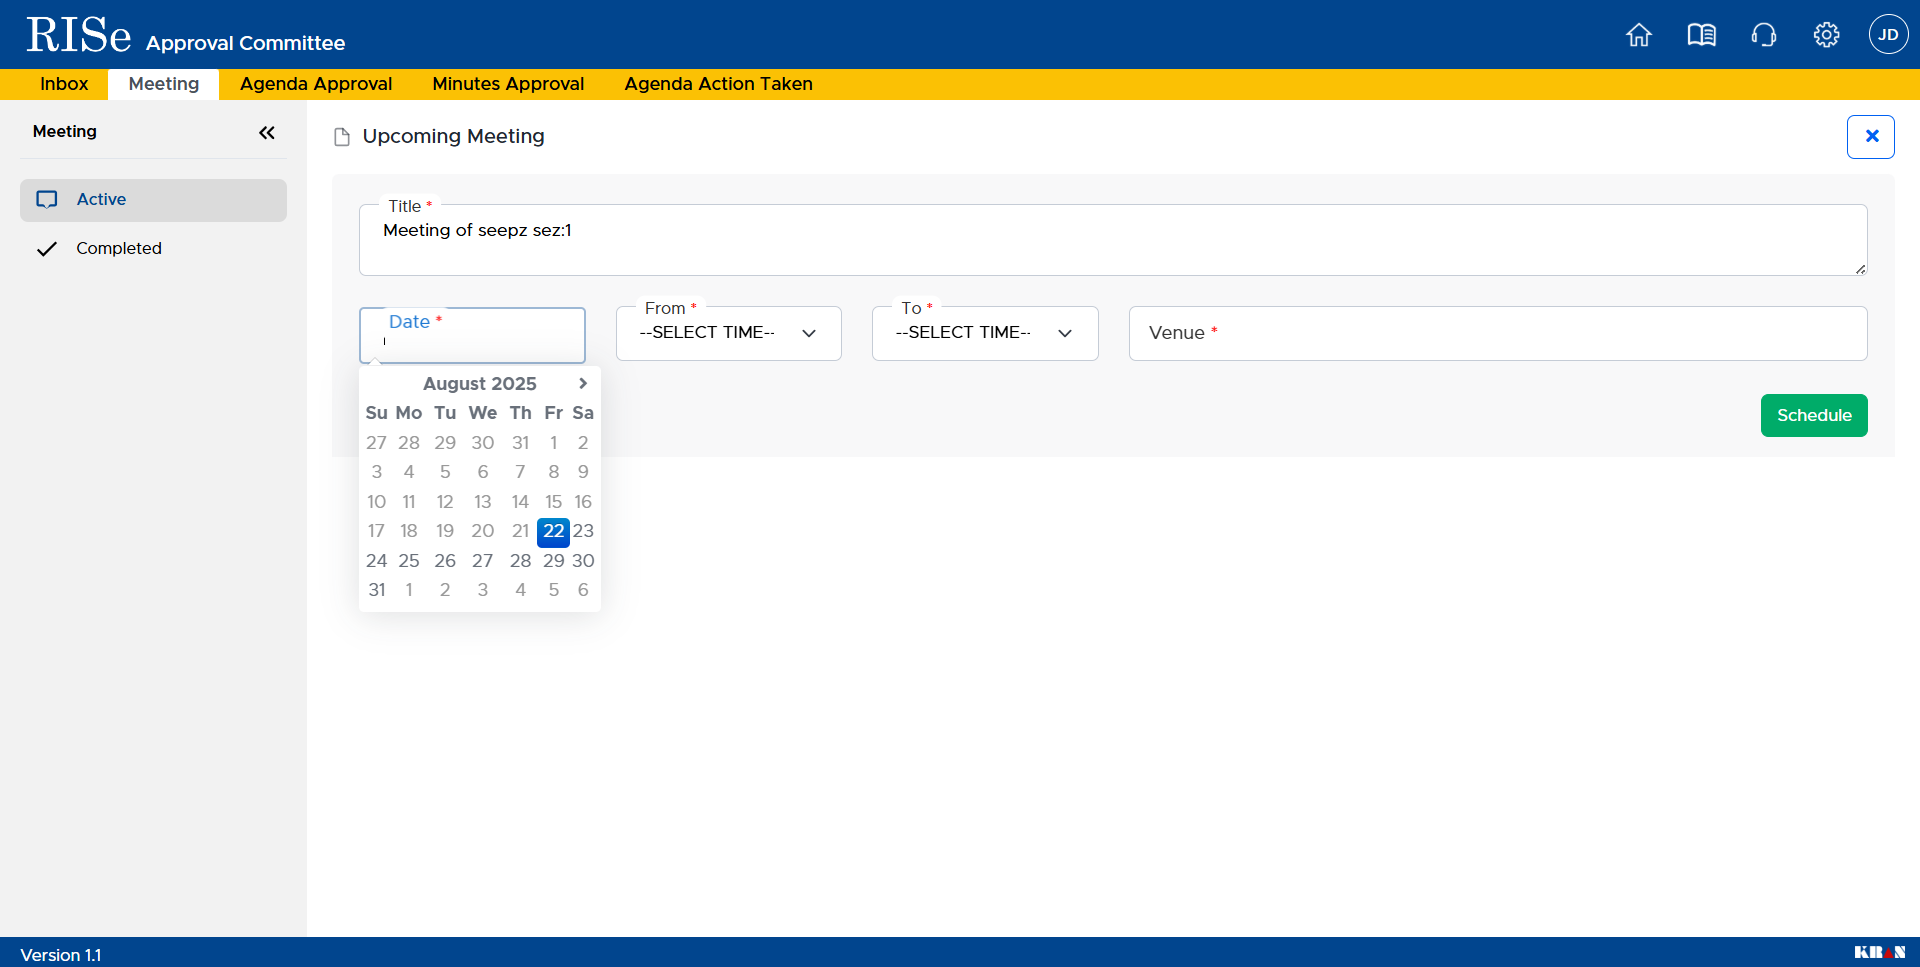
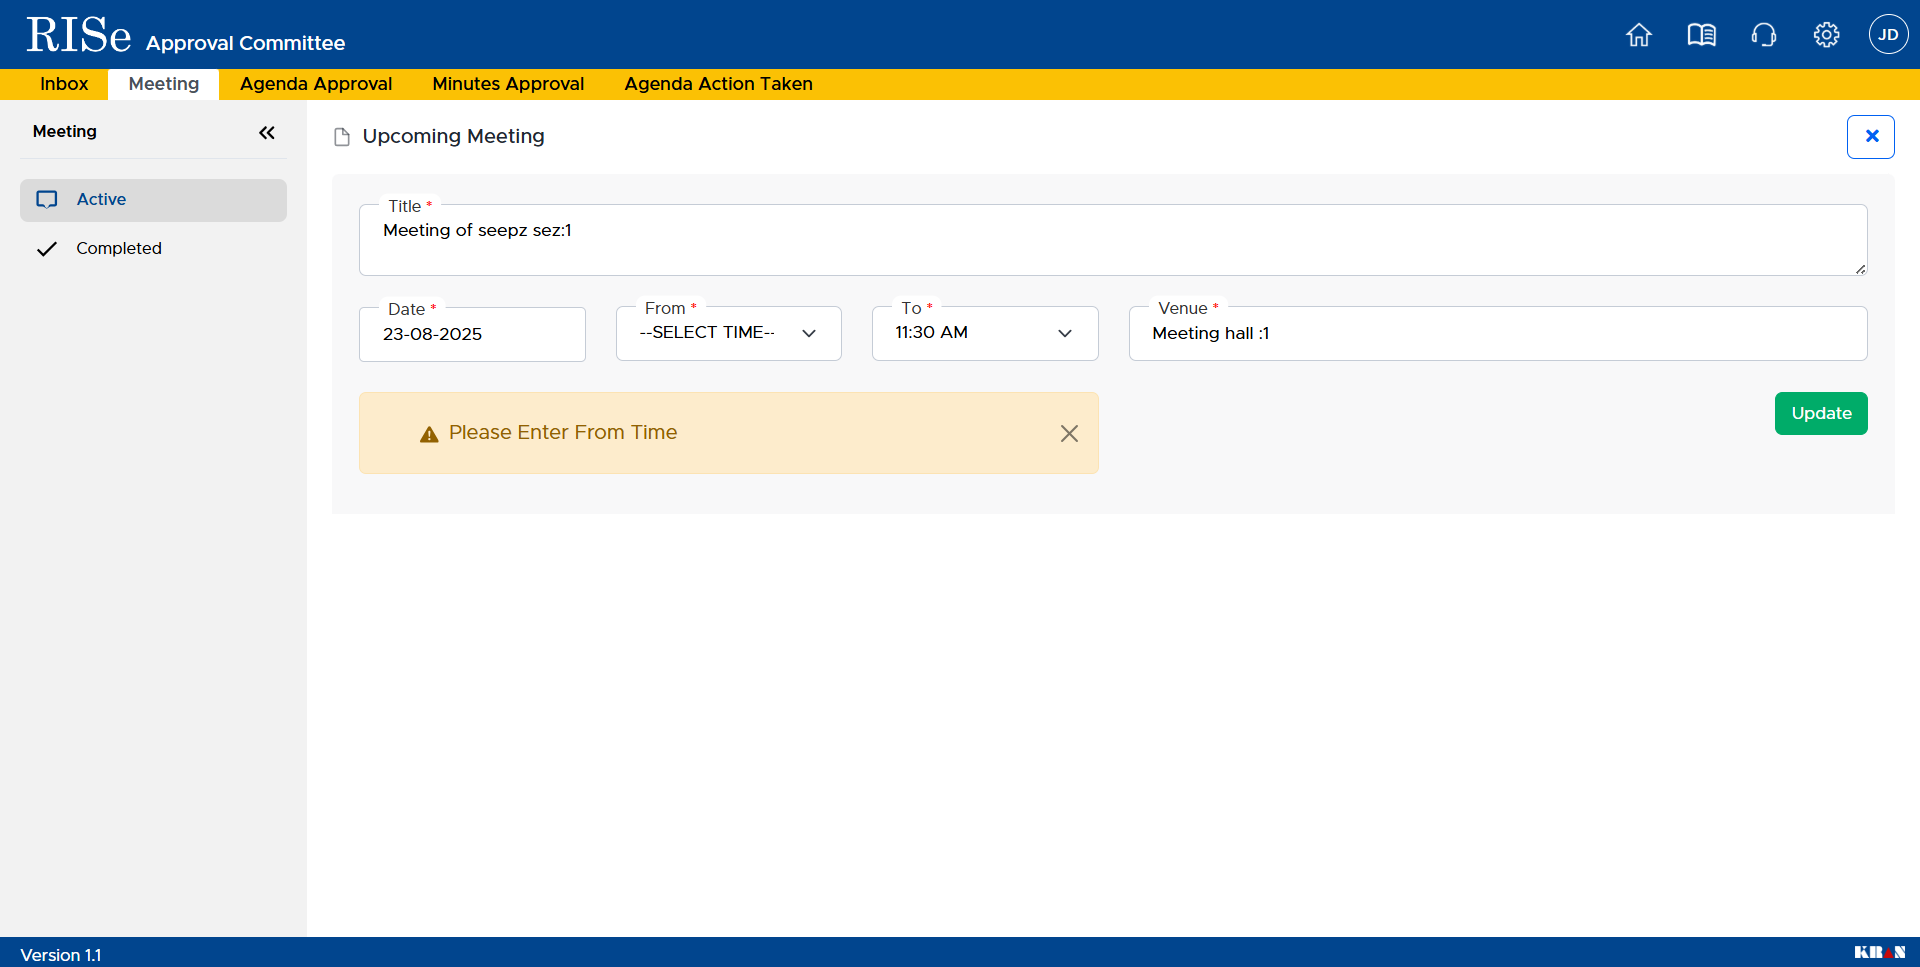
new testcases

diff --git a/Seepz/test-output/index.html b/Seepz/test-output/index.html
@@ -92,7 +92,7 @@
               <div class="suite-section-content">
                 <ul>
                   <li>
-                    <span class="method-stats">2 methods,   2 passed</span>
+                    <span class="method-stats">4 methods,   4 passed</span>
                   </li>
                   <li>
                     <span class="method-list-title passed">Passed methods</span>
@@ -109,6 +109,16 @@
                       <span>
                         <img src="passed.png" width="3%"/>
                         <a href="#" panel-name="suite-Suite" title="pagestestscript.MeetingPageTest" class="method navigator-link" hash-for-method="verifyThatTheUserIsAbleToInitiateMeetingWithOutFromTime">verifyThatTheUserIsAbleToInitiateMeetingWithOutFromTime</a> <!-- method navigator-link -->
+                      </span>
+                      <br/>
+                      <span>
+                        <img src="passed.png" width="3%"/>
+                        <a href="#" panel-name="suite-Suite" title="pagestestscript.MeetingPageTest" class="method navigator-link" hash-for-method="verifyThatTheUserIsAbleToInitiateMeetingWithOutToTime">verifyThatTheUserIsAbleToInitiateMeetingWithOutToTime</a> <!-- method navigator-link -->
+                      </span>
+                      <br/>
+                      <span>
+                        <img src="passed.png" width="3%"/>
+                        <a href="#" panel-name="suite-Suite" title="pagestestscript.MeetingPageTest" class="method navigator-link" hash-for-method="verifyThatTheUserIsAbleToInitiateMeetingWithoutVenue">verifyThatTheUserIsAbleToInitiateMeetingWithoutVenue</a> <!-- method navigator-link -->
                       </span>
                       <br/>
                     </div> <!-- method-list-content passed suite-Suite -->
@@ -143,6 +153,20 @@
                   <span class="method-name">verifyThatTheUserIsAbleToInitiateMeetingWithOutFromTime</span>
                 </div> <!-- method-content -->
               </div> <!-- method -->
+              <div class="method">
+                <div class="method-content">
+                  <a name="verifyThatTheUserIsAbleToInitiateMeetingWithOutToTime">
+                  </a> <!-- verifyThatTheUserIsAbleToInitiateMeetingWithOutToTime -->
+                  <span class="method-name">verifyThatTheUserIsAbleToInitiateMeetingWithOutToTime</span>
+                </div> <!-- method-content -->
+              </div> <!-- method -->
+              <div class="method">
+                <div class="method-content">
+                  <a name="verifyThatTheUserIsAbleToInitiateMeetingWithoutVenue">
+                  </a> <!-- verifyThatTheUserIsAbleToInitiateMeetingWithoutVenue -->
+                  <span class="method-name">verifyThatTheUserIsAbleToInitiateMeetingWithoutVenue</span>
+                </div> <!-- method-content -->
+              </div> <!-- method -->
             </div> <!-- main-panel-content rounded-window-bottom -->
           </div> <!-- suite-Suite-class-passed -->
         </div> <!-- panel Suite -->
@@ -156,12 +180,17 @@
 &lt;!DOCTYPE suite SYSTEM &quot;https://testng.org/testng-1.0.dtd&quot;&gt;
 &lt;suite name=&quot;Suite&quot; guice-stage=&quot;DEVELOPMENT&quot;&gt;
   &lt;parameter name=&quot;browser&quot; value=&quot;chrome&quot;/&gt;
+  &lt;listeners&gt;
+    &lt;listener class-name=&quot;generatereport.Listeners&quot;/&gt;
+  &lt;/listeners&gt;
   &lt;test thread-count=&quot;5&quot; name=&quot;uac module&quot;&gt;
     &lt;classes&gt;
       &lt;class name=&quot;pagestestscript.MeetingPageTest&quot;&gt;
         &lt;methods&gt;
           &lt;include name=&quot;verifyThatTheUserIsAbleToInitiateMeetingWithOutDate&quot;/&gt;
           &lt;include name=&quot;verifyThatTheUserIsAbleToInitiateMeetingWithOutFromTime&quot;/&gt;
+          &lt;include name=&quot;verifyThatTheUserIsAbleToInitiateMeetingWithOutToTime&quot;/&gt;
+          &lt;include name=&quot;verifyThatTheUserIsAbleToInitiateMeetingWithoutVenue&quot;/&gt;
         &lt;/methods&gt;
       &lt;/class&gt; &lt;!-- pagestestscript.MeetingPageTest --&gt;
     &lt;/classes&gt;
@@ -203,20 +232,28 @@ data.addColumn('number', 'Number');
 data.addColumn('string', 'Method');
 data.addColumn('string', 'Class');
 data.addColumn('number', 'Time (ms)');
-data.addRows(2);
+data.addRows(4);
 data.setCell(0, 0, 0)
-data.setCell(0, 1, 'verifyThatTheUserIsAbleToInitiateMeetingWithOutDate')
+data.setCell(0, 1, 'verifyThatTheUserIsAbleToInitiateMeetingWithOutFromTime')
 data.setCell(0, 2, 'pagestestscript.MeetingPageTest')
-data.setCell(0, 3, 8051);
+data.setCell(0, 3, 17722);
 data.setCell(1, 0, 1)
-data.setCell(1, 1, 'verifyThatTheUserIsAbleToInitiateMeetingWithOutFromTime')
+data.setCell(1, 1, 'verifyThatTheUserIsAbleToInitiateMeetingWithoutVenue')
 data.setCell(1, 2, 'pagestestscript.MeetingPageTest')
-data.setCell(1, 3, 7008);
+data.setCell(1, 3, 14544);
+data.setCell(2, 0, 2)
+data.setCell(2, 1, 'verifyThatTheUserIsAbleToInitiateMeetingWithOutDate')
+data.setCell(2, 2, 'pagestestscript.MeetingPageTest')
+data.setCell(2, 3, 10186);
+data.setCell(3, 0, 3)
+data.setCell(3, 1, 'verifyThatTheUserIsAbleToInitiateMeetingWithOutToTime')
+data.setCell(3, 2, 'pagestestscript.MeetingPageTest')
+data.setCell(3, 3, 8865);
 window.suiteTableData['Suite']= { tableData: data, tableDiv: 'times-div-Suite'}
 return data;
 }
               </script>
-              <span class="suite-total-time">Total running time: 15 seconds</span>
+              <span class="suite-total-time">Total running time: 51 seconds</span>
               <div id="times-div-Suite">
               </div> <!-- times-div-Suite -->
             </div> <!-- times-div -->
@@ -256,23 +293,47 @@ return data;
               </div> <!-- configuration-method before -->
               <div class="test-method">
                 <span class="method-name">verifyThatTheUserIsAbleToInitiateMeetingWithOutDate</span>
-                <span class="method-start">3642 ms</span>
+                <span class="method-start">3408 ms</span>
               </div> <!-- test-method -->
               <div class="configuration-method after">
                 <span class="method-name">afterMethod([TestResult name=verifyThatTheUserIsAbleToInitiateMeetingWithOutDate status=SUCCESS method=MeetingPa...)</span>
-                <span class="method-start">11698 ms</span>
+                <span class="method-start">13609 ms</span>
               </div> <!-- configuration-method after -->
               <div class="configuration-method before">
                 <span class="method-name">beforeMethod(chrome)</span>
-                <span class="method-start">11705 ms</span>
+                <span class="method-start">13613 ms</span>
               </div> <!-- configuration-method before -->
               <div class="test-method">
                 <span class="method-name">verifyThatTheUserIsAbleToInitiateMeetingWithOutFromTime</span>
-                <span class="method-start">14712 ms</span>
+                <span class="method-start">16860 ms</span>
               </div> <!-- test-method -->
               <div class="configuration-method after">
                 <span class="method-name">afterMethod([TestResult name=verifyThatTheUserIsAbleToInitiateMeetingWithOutFromTime status=SUCCESS method=Meeti...)</span>
-                <span class="method-start">21742 ms</span>
+                <span class="method-start">34587 ms</span>
+              </div> <!-- configuration-method after -->
+              <div class="configuration-method before">
+                <span class="method-name">beforeMethod(chrome)</span>
+                <span class="method-start">34587 ms</span>
+              </div> <!-- configuration-method before -->
+              <div class="test-method">
+                <span class="method-name">verifyThatTheUserIsAbleToInitiateMeetingWithOutToTime</span>
+                <span class="method-start">37487 ms</span>
+              </div> <!-- test-method -->
+              <div class="configuration-method before">
+                <span class="method-name">beforeMethod(chrome)</span>
+                <span class="method-start">46361 ms</span>
+              </div> <!-- configuration-method before -->
+              <div class="configuration-method after">
+                <span class="method-name">afterMethod([TestResult name=verifyThatTheUserIsAbleToInitiateMeetingWithOutToTime status=SUCCESS method=Meeting...)</span>
+                <span class="method-start">46361 ms</span>
+              </div> <!-- configuration-method after -->
+              <div class="test-method">
+                <span class="method-name">verifyThatTheUserIsAbleToInitiateMeetingWithoutVenue</span>
+                <span class="method-start">50274 ms</span>
+              </div> <!-- test-method -->
+              <div class="configuration-method after">
+                <span class="method-name">afterMethod([TestResult name=verifyThatTheUserIsAbleToInitiateMeetingWithoutVenue status=SUCCESS method=MeetingP...)</span>
+                <span class="method-start">64818 ms</span>
               </div> <!-- configuration-method after -->
           </div> <!-- main-panel-content rounded-window-bottom -->
         </div> <!-- panel -->

diff --git a/Seepz/test-output/emailable-report.html b/Seepz/test-output/emailable-report.html
@@ -9,11 +9,13 @@
 <table>
 <tr><th>Test</th><th># Passed</th><th># Skipped</th><th># Retried</th><th># Failed</th><th>Time (ms)</th><th>Included Groups</th><th>Excluded Groups</th></tr>
 <tr><th colspan="8">Suite</th></tr>
-<tr><td><a href="#t0">uac module</a></td><td class="num">2</td><td class="num">0</td><td class="num">0</td><td class="num">0</td><td class="num">21,783</td><td></td><td></td></tr>
+<tr><td><a href="#t0">uac module</a></td><td class="num">4</td><td class="num">0</td><td class="num">0</td><td class="num">0</td><td class="num">64,879</td><td></td><td></td></tr>
 </table>
-<table id='summary'><thead><tr><th>Class</th><th>Method</th><th>Start</th><th>Time (ms)</th></tr></thead><tbody><tr><th colspan="4">Suite</th></tr></tbody><tbody id="t0"><tr><th colspan="4">uac module &#8212; passed</th></tr><tr class="passedeven"><td rowspan="2">pagestestscript.MeetingPageTest</td><td><a href="#m0">verifyThatTheUserIsAbleToInitiateMeetingWithOutDate</a></td><td rowspan="1">1755838965441</td><td rowspan="1">8051</td></tr><tr class="passedeven"><td><a href="#m1">verifyThatTheUserIsAbleToInitiateMeetingWithOutFromTime</a></td><td rowspan="1">1755838976511</td><td rowspan="1">7008</td></tr></tbody>
+<table id='summary'><thead><tr><th>Class</th><th>Method</th><th>Start</th><th>Time (ms)</th></tr></thead><tbody><tr><th colspan="4">Suite</th></tr></tbody><tbody id="t0"><tr><th colspan="4">uac module &#8212; passed</th></tr><tr class="passedeven"><td rowspan="4">pagestestscript.MeetingPageTest</td><td><a href="#m0">verifyThatTheUserIsAbleToInitiateMeetingWithOutDate</a></td><td rowspan="1">1755846959214</td><td rowspan="1">10186</td></tr><tr class="passedeven"><td><a href="#m1">verifyThatTheUserIsAbleToInitiateMeetingWithOutFromTime</a></td><td rowspan="1">1755846972666</td><td rowspan="1">17722</td></tr><tr class="passedeven"><td><a href="#m2">verifyThatTheUserIsAbleToInitiateMeetingWithOutToTime</a></td><td rowspan="1">1755846993293</td><td rowspan="1">8865</td></tr><tr class="passedeven"><td><a href="#m3">verifyThatTheUserIsAbleToInitiateMeetingWithoutVenue</a></td><td rowspan="1">1755847006080</td><td rowspan="1">14544</td></tr></tbody>
 </table>
 <h2>uac module</h2><h3 id="m0">pagestestscript.MeetingPageTest#verifyThatTheUserIsAbleToInitiateMeetingWithOutDate</h3><table class="result"><tr><th class="invisible"/></tr></table><p class="totop"><a href="#summary">back to summary</a></p>
 <h3 id="m1">pagestestscript.MeetingPageTest#verifyThatTheUserIsAbleToInitiateMeetingWithOutFromTime</h3><table class="result"><tr><th class="invisible"/></tr></table><p class="totop"><a href="#summary">back to summary</a></p>
+<h3 id="m2">pagestestscript.MeetingPageTest#verifyThatTheUserIsAbleToInitiateMeetingWithOutToTime</h3><table class="result"><tr><th class="invisible"/></tr></table><p class="totop"><a href="#summary">back to summary</a></p>
+<h3 id="m3">pagestestscript.MeetingPageTest#verifyThatTheUserIsAbleToInitiateMeetingWithoutVenue</h3><table class="result"><tr><th class="invisible"/></tr></table><p class="totop"><a href="#summary">back to summary</a></p>
 </body>
 </html>

diff --git a/Seepz/test-output/Suite/uac module.html b/Seepz/test-output/Suite/uac module.html
@@ -55,11 +55,11 @@ function toggleAllBoxes() {
 <body>
 <h2 align='center'>uac module</h2><table border='1' align="center">
 <tr>
-<td>Tests passed/Failed/Skipped:</td><td>2/0/0</td>
+<td>Tests passed/Failed/Skipped:</td><td>4/0/0</td>
 </tr><tr>
-<td>Started on:</td><td>Fri Aug 22 10:32:41 IST 2025</td>
+<td>Started on:</td><td>Fri Aug 22 12:45:55 IST 2025</td>
 </tr>
-<tr><td>Total time:</td><td>21 seconds (21783 ms)</td>
+<tr><td>Total time:</td><td>64 seconds (64879 ms)</td>
 </tr><tr>
 <td>Included groups:</td><td></td>
 </tr><tr>
@@ -78,13 +78,23 @@ function toggleAllBoxes() {
 <tr>
 <td title='pagestestscript.MeetingPageTest.verifyThatTheUserIsAbleToInitiateMeetingWithOutDate()'><b>verifyThatTheUserIsAbleToInitiateMeetingWithOutDate</b><br>Test class: pagestestscript.MeetingPageTest</td>
 <td></td>
+<td>10</td>
+<td>pagestestscript.MeetingPageTest@4351171a</td></tr>
+<tr>
+<td title='pagestestscript.MeetingPageTest.verifyThatTheUserIsAbleToInitiateMeetingWithoutVenue()'><b>verifyThatTheUserIsAbleToInitiateMeetingWithoutVenue</b><br>Test class: pagestestscript.MeetingPageTest</td>
+<td></td>
+<td>14</td>
+<td>pagestestscript.MeetingPageTest@4351171a</td></tr>
+<tr>
+<td title='pagestestscript.MeetingPageTest.verifyThatTheUserIsAbleToInitiateMeetingWithOutToTime()'><b>verifyThatTheUserIsAbleToInitiateMeetingWithOutToTime</b><br>Test class: pagestestscript.MeetingPageTest</td>
+<td></td>
 <td>8</td>
-<td>pagestestscript.MeetingPageTest@486be205</td></tr>
+<td>pagestestscript.MeetingPageTest@4351171a</td></tr>
 <tr>
 <td title='pagestestscript.MeetingPageTest.verifyThatTheUserIsAbleToInitiateMeetingWithOutFromTime()'><b>verifyThatTheUserIsAbleToInitiateMeetingWithOutFromTime</b><br>Test class: pagestestscript.MeetingPageTest</td>
 <td></td>
-<td>7</td>
-<td>pagestestscript.MeetingPageTest@486be205</td></tr>
+<td>17</td>
+<td>pagestestscript.MeetingPageTest@4351171a</td></tr>
 </table><p>
 </body>
 </html>

diff --git a/Seepz/src/test/java/pagestestscript/MeetingPageTest.java b/Seepz/src/test/java/pagestestscript/MeetingPageTest.java
@@ -28,7 +28,7 @@ public class MeetingPageTest extends Base {
 		module.clickOnModuleListLink();
 		meeting = module.clickOnUAC_Module();
 		meeting.clickOnMeetingTab().clickOnInitiateMeetingButton().enterTilteOfTheMeeting(meetingName)
-				.selectDateOfTheMeeting().selectFromTimeOfMeeting(fromTime).selectToTimeForTheMeeting(toTime)
+				.selectDateOfTheMeeting("23").selectFromTimeOfMeeting(fromTime).selectToTimeForTheMeeting(toTime)
 				.enterTheVenueForTheMeeting(meetingVenue).clickOnScheduleButton();
 
 	}
@@ -51,7 +51,7 @@ public class MeetingPageTest extends Base {
 				.enterTheVenueForTheMeeting(meetingVenue).clickOnScheduleButton();
 		boolean actual = meeting.isNoDateAlertIsDisplayed();
 		Assert.assertTrue(actual, "alert is not displayed if date is not added");
-		String alert=meeting.isalertdisplayed();
+		String alert=meeting.getalertMessage();
         System.out.println(alert);
 	}
 	@Test
@@ -68,10 +68,53 @@ public class MeetingPageTest extends Base {
 		module.clickOnModuleListLink();
 		meeting = module.clickOnUAC_Module();
 		meeting.clickOnMeetingTab().clickOnInitiateMeetingButton().enterTilteOfTheMeeting(meetingName)
-				.selectDateOfTheMeeting().selectToTimeForTheMeeting(toTime)
+				.selectDateOfTheMeeting("23").selectToTimeForTheMeeting(toTime)
 				.enterTheVenueForTheMeeting(meetingVenue).clickOnScheduleButton();
          boolean actual=meeting.isNoFromTimeAlertDisplayed();
          Assert.assertTrue(actual, "alert is not displayed if from time is not displayed");
-         
+         String alert=meeting.getalertMessage();
+         System.out.println(alert);
+	}
+	@Test
+	public void verifyThatTheUserIsAbleToInitiateMeetingWithOutToTime() throws IOException {
+		LoginPage login = new LoginPage(driver);
+		String userName = ExcelUtility.readStringData(6, 0, "login_page");
+		String pass = ExcelUtility.readStringData(6, 1, "login_page");
+		int fromTime = ExcelUtility.readIntegerData(15, 0, "Time");
+		//int toTime = ExcelUtility.readIntegerData(24, 1, "Time");
+		String meetingName = ExcelUtility.readStringData(1, 0, "name&venue");
+		String meetingVenue = ExcelUtility.readStringData(1, 1, "name&venue");
+		login.loginAsSeepzUser(userName, pass);
+		module = login.clickOnLoginButton();
+		module.clickOnModuleListLink();
+		meeting = module.clickOnUAC_Module();
+		meeting.clickOnMeetingTab().clickOnInitiateMeetingButton().enterTilteOfTheMeeting(meetingName)
+				.selectDateOfTheMeeting("23").selectFromTimeOfMeeting(fromTime)
+				.enterTheVenueForTheMeeting(meetingVenue).clickOnScheduleButton();
+		boolean actual=meeting.isNoToTimeAlertDisplayed();
+		Assert.assertTrue(actual, "no alert message is displayed");
+		String alert=meeting.getalertMessage();
+        System.out.println(alert);
+	}
+	@Test
+	public void verifyThatTheUserIsAbleToInitiateMeetingWithoutVenue() throws IOException {
+		LoginPage login = new LoginPage(driver);
+		String userName = ExcelUtility.readStringData(6, 0, "login_page");
+		String pass = ExcelUtility.readStringData(6, 1, "login_page");
+		int fromTime = ExcelUtility.readIntegerData(15, 0, "Time");
+	    int toTime = ExcelUtility.readIntegerData(24, 1, "Time");
+		String meetingName = ExcelUtility.readStringData(1, 0, "name&venue");
+		//String meetingVenue = ExcelUtility.readStringData(1, 1, "name&venue");
+		login.loginAsSeepzUser(userName, pass);
+		module = login.clickOnLoginButton();
+		module.clickOnModuleListLink();
+		meeting = module.clickOnUAC_Module();
+		meeting.clickOnMeetingTab().clickOnInitiateMeetingButton().enterTilteOfTheMeeting(meetingName)
+				.selectDateOfTheMeeting("23").selectFromTimeOfMeeting(fromTime)
+				.selectToTimeForTheMeeting(toTime).clickOnScheduleButton();
+		boolean actual=meeting.isNoVenueAlertIsDisplayed();
+		Assert.assertTrue(actual, "no alert is displayed");
+		String alert=meeting.getalertMessage();
+        System.out.println(alert);
 	}
 }

diff --git a/Seepz/src/main/java/pages/MeetingPage.java b/Seepz/src/main/java/pages/MeetingPage.java
@@ -11,12 +11,13 @@ import pageutilities.WaitUtility;
 public class MeetingPage {
 	WebDriver driver;
 	WaitUtility utility;
-	PageUtility pageutility = new PageUtility();
+	PageUtility pageutility;
 
 	public MeetingPage(WebDriver driver) {
 		this.driver = driver;
 		PageFactory.initElements(driver, this);
 		utility = new WaitUtility();
+		pageutility = new PageUtility(driver);
 	}
 
 	@FindBy(id = "meetingtab")
@@ -27,8 +28,8 @@ public class MeetingPage {
 	WebElement title;
 	@FindBy(xpath = "//input[@id='scheduleDate']")
 	WebElement dateField;
-	@FindBy(xpath = "//table[@class=' table-condensed']/tbody/tr/td[@class='day' and text()='23']")
-	WebElement pickdate; // changing xpath
+	@FindBy(xpath = "//table[@class=' table-condensed']")
+	WebElement datepicker; 
 	@FindBy(xpath = "//select[@id='fromTime']")
 	WebElement fromTime;
 	@FindBy(xpath = "//select[@id='toTime']")
@@ -59,10 +60,10 @@ public class MeetingPage {
 		return this;
 	}
 
-	public MeetingPage selectDateOfTheMeeting() {
+	public MeetingPage selectDateOfTheMeeting(String day) {
 		dateField.click();
-		utility.WaitForElementToBeClicked(driver, pickdate);
-		pickdate.click();
+		utility.waitForElementToBeLocated(driver, "//table[@class=' table-condensed']");
+		pageutility.selectDateOfMeeting(driver, day);
 		return this;
 	}
 
@@ -89,16 +90,24 @@ public class MeetingPage {
 	// assertion for no date
 	public boolean isNoDateAlertIsDisplayed() {
 
-		return noDateAlert.isDisplayed();
+		return getalertMessage().contains("Please Enter Date");
 	}
 
 	// assertion for no from time
 	public boolean isNoFromTimeAlertDisplayed() {
-		return noFromTimeALert.isDisplayed();
+		return getalertMessage().contains("Please Enter From Time");
 	}
 
-	public String isalertdisplayed() {
+	public String getalertMessage() {
 		String alert = alertMessage.getText();
 		return alert;
+	}
+	//assertion for no to time
+	public boolean isNoToTimeAlertDisplayed() {
+		return getalertMessage().contains("Please Enter To");
+	}
+	//assertion for no venue
+	public boolean isNoVenueAlertIsDisplayed() {
+		return getalertMessage().contains("Please Enter Venue");
 	}
 }

diff --git a/Seepz/src/main/java/pageutilities/PageUtility.java b/Seepz/src/main/java/pageutilities/PageUtility.java
@@ -1,5 +1,6 @@
 package pageutilities;
 
+import org.openqa.selenium.By;
 import org.openqa.selenium.JavascriptExecutor;
 import org.openqa.selenium.WebDriver;
 import org.openqa.selenium.WebElement;
@@ -31,7 +32,11 @@ public class PageUtility {
 		Select select = new Select(element);
 		select.selectByVisibleText(text);
 	}
-
+//utility to pick the date in meeting tab
+	public void selectDateOfMeeting(WebDriver driver,String day) {
+		WebElement date=driver.findElement(By.xpath("//td[@class='day' and normalize-space(text())='" + day + "']"));
+		date.click();
+	}
 //java script utilities
 	// Scroll into view
 	public void scrollIntoView(WebElement element) {

diff --git a/Seepz/src/main/java/pageutilities/WaitUtility.java b/Seepz/src/main/java/pageutilities/WaitUtility.java
@@ -28,4 +28,9 @@ public class WaitUtility {
 		WebDriverWait wait = new WebDriverWait(driver, Duration.ofSeconds(30));
 		wait.until(ExpectedConditions.elementToBeClickable(By.xpath(locator)));
 	}
+
+public void waitForElementToBeLocated(WebDriver driver,String locator) {
+	WebDriverWait wait=new WebDriverWait(driver, Duration.ofSeconds(30));
+	wait.until(ExpectedConditions.presenceOfElementLocated(By.xpath(locator)));
+}
 }
